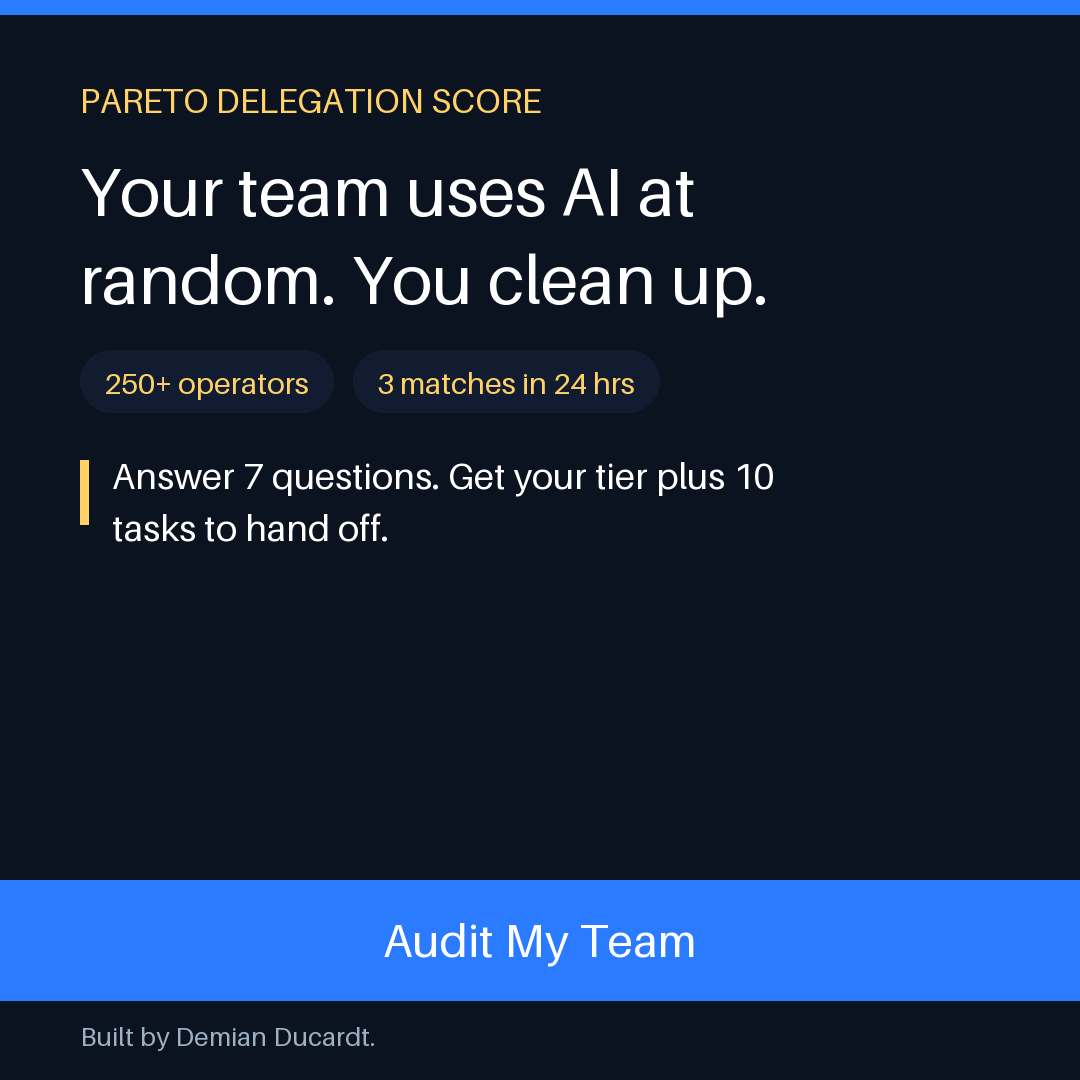
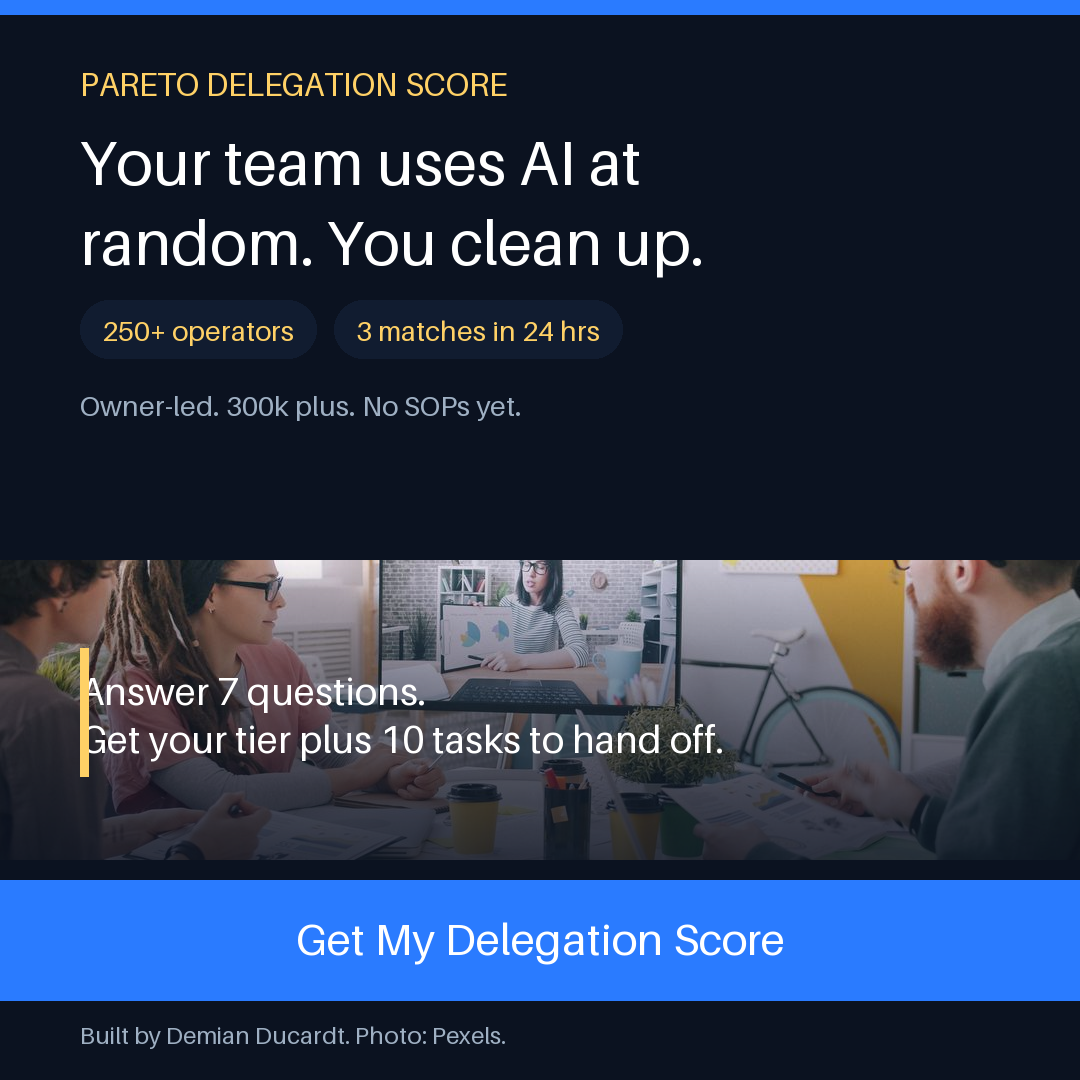
Crew fixes full pass, Pexels photos, unified CTA, qualifier line

diff --git a/08_Ads/ads_pack.md b/08_Ads/ads_pack.md
@@ -9,16 +9,16 @@ related: ["MOC.md", "../06_Funnel/index.html", "../05_LeadMagnet/quiz.html"]
 
 Title: 5 ads. Owner Demian Ducardt. Palette Pareto dark plus blue. Style real founder photo.
 
-Ad 1 hook inbox: Your inbox runs you. Get the hours back. Offer: 2 min Delegation Score. Qualifier: 300k plus companies. Proof: 100 plus founders, 93 percent retention. Mechanism: quiz routes to email pack. CTA: Get my score. Image prompt: founder at desk, chaos to calm, dark blue, morning light.
+Ad 1 hook inbox: Your inbox runs you. Get the hours back. Offer: 2 min Delegation Score. Qualifier: 300k plus companies. Proof: 100 plus founders, 93 percent retention. Mechanism: quiz routes to email pack. CTA: Get My Delegation Score. Image: Photo Pexels ID 21405528, woman at dual-screen desk. Free license.
 
-Ad 2 AI behind: Your team uses AI at random. You clean up. Offer: Bottleneck Audit. Qualifier: owner led, no SOPs. Proof: 250 plus pros, 3 matches in 24 hours. Mechanism: 7 questions plus tiers. CTA: Audit my team. Image: team call grid, one operator dashboard closeup.
+Ad 2 AI behind: Your team uses AI at random. You clean up. Offer: Bottleneck Audit. Qualifier: owner led, no SOPs. Proof: 250 plus pros, 3 matches in 24 hours. Mechanism: 7 questions plus tiers. CTA: Get My Delegation Score. Image: Photo Pexels ID 39190578, team around table with screen. Free license.
 
-Ad 3 burned hirer: Cheap help cost you weekends. Offer: trust route with operator. Qualifier: burned before. Proof: 3 matches in 24 hours, 100 plus founders served. Mechanism: email CTA, no calendar maze. CTA: Send my pack. Image: crossed out cheap VA checklist, clean Pareto card.
+Ad 3 burned hirer: Cheap help cost you weekends. Offer: trust route with operator. Qualifier: burned before. Proof: 3 matches in 24 hours, 100 plus founders served. Mechanism: email CTA, no calendar maze. CTA: Get My Delegation Score. Image: Photo Pexels ID 39190496, founder on video call over shoulder. Free license.
 
-Ad 4 company angle: Every task waits for you when no one owns the handoff. Offer: company pack plus SOP template. Qualifier: 300k plus, 1 plus team, solo OK. Proof: 100 plus founders, 93 percent retention. Mechanism: quiz plus 3 emails. CTA: Get company pack. Image: office board with SOP lanes.
+Ad 4 company angle: Every task waits for you when no one owns the handoff. Offer: company pack plus SOP template. Qualifier: 300k plus, 1 plus team, solo OK. Proof: 100 plus founders, 93 percent retention. Mechanism: quiz plus 3 emails. CTA: Get My Delegation Score. Image: Photo Pexels ID 35273151, ops spreadsheet plus call on laptop. Free license.
 
-Ad 5 second brain: Stop running the company from memory. Offer: Delegation Score pack plus SOP system. Qualifier: owner led, no SOPs. Proof: 40 plus hours trained, 250 plus pros. Mechanism: quiz plus email pack. CTA: Get my pack. Image: ad5_second_brain.png, operator desk with system lanes, dark blue. Owner may swap this angle, files rename cleanly.
+Ad 5 second brain: Stop running the company from memory. Offer: Delegation Score pack plus SOP system. Qualifier: owner led, no SOPs. Proof: 40 plus hours trained, 250 plus pros. Mechanism: quiz plus email pack. CTA: Get My Delegation Score. Image: Photo Pexels ID 3861964, systems screen with video call. Free license. Owner may swap this angle, files rename cleanly.
 
-All copy ends with Built by Demian Ducardt on visuals. All 5 carry the payoff subhead. No spend. Copy plus image prompt only.
+All copy ends with Built by Demian Ducardt on visuals. All 5 carry the payoff subhead plus the qualifier line. No spend. Copy plus image prompt only.
 
 Built by Demian Ducardt.
